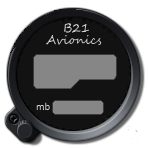
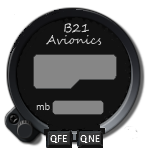
added QNE QFE buttons to altimeter. gear indicator bigger.

Changed region(s): [[0.2973, 0.8378, 0.7297, 1.0]]

diff --git a/README.md b/README.md
@@ -8,9 +8,7 @@
 
 ## Modification list
 
-* add QFE/QNH button to Altimeter
 * ensure debug console disabled
-* check altimeter QFE knob with mouse wheel
 * add tow release handle
 * correct spoilers L/D
 * weaken wheelbrake effectiveness
@@ -19,6 +17,7 @@
 * tidy up bezel highlight/shadow for ballast gauge
 * adjust trim max-min effect
 * calibrate netto polar
+* DONE add QFE/QNE button to Altimeter
 * DONE check USER_SETTINGS.lua flap numbers
 * DONE limit STF bug on ASI to 50 knots min
 * DONE fix panel texture bleed through
